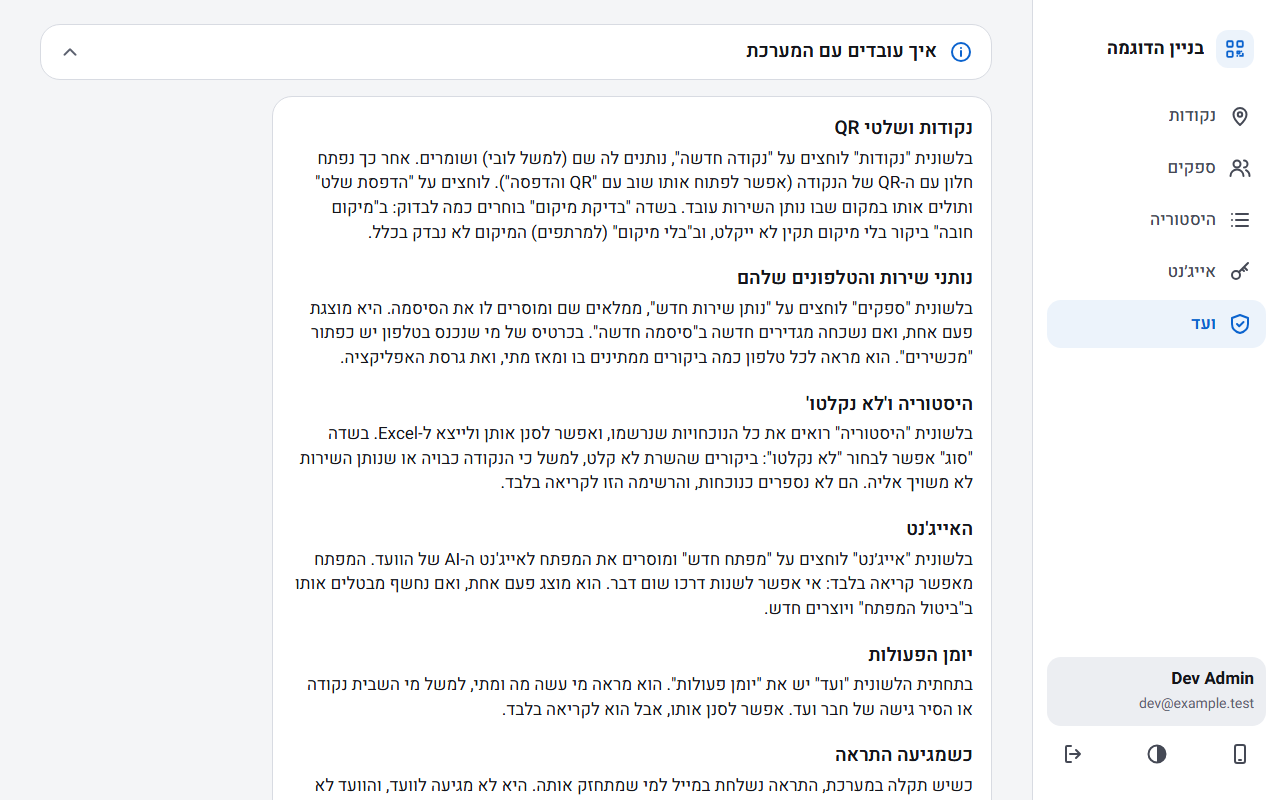
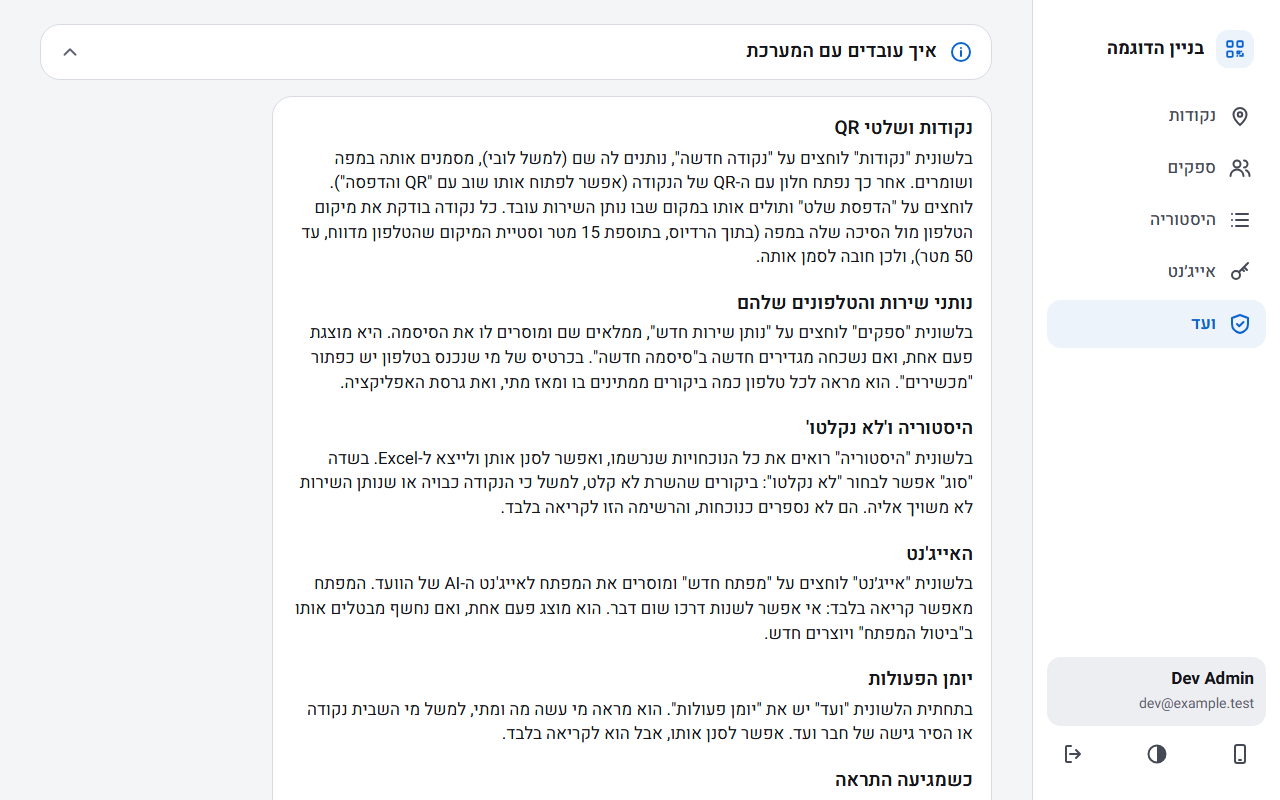
docs(screenshots): the committee screens as they are now, every point checking the location (#166)
🟢 The README's pictures, their README, and one statement in the local
screenshot script (`scripts/screenshots/seed-history.mjs`, which runs
only in the screenshot run's own scratch schema and never in CI). No
app, server, test or CI change.

## Why

The pictures were taken on 06/10/2026 (#121), and since then several
screens have changed:

- **The points screen** lost its location-mode badges: every point is
saved as location required (#158). It also shows the radius on every
tile.
- **History** shows the accuracy next to the distance, for example ("0
מ׳ מהנקודה, דיוק 10 מ׳"), since #152.
- **The help** says that every point is marked on the map and checks the
phone's location against its pin (#158).
- **The provider sign-in notice** says that the location is not saved on
the server (#157).

## What changes

- **`scripts/screenshots/seed-history.mjs`** sets every sample point to
`required` before the pictures are taken, as the committee app saves
them. Without it, the lobby (`optional`) and the basement (`none`) of
the sample seed would show warning badges. It only touches the
screenshot run's own scratch schema. `scripts/dev-seed.mjs` keeps its
older modes on purpose, because the end-to-end tests cover how the
server serves a point that an older installation saved without the
check.
- **Seven pictures retaken** with `npm run screenshots`:
  - points on a phone, a computer, and in the dark theme;
  - History on a phone and a computer;
  - the help;
[…]

Changed region(s): [[0.2188, 0.1875, 0.7812, 1.0]]

diff --git a/docs/screenshots/README.md b/docs/screenshots/README.md
@@ -7,7 +7,9 @@ like before installing anything. Both apps are in Hebrew, in the light theme (on
 invented providers, four points on an invented position, and sixteen visits that `scripts/screenshots/seed-history.mjs`
 adds). No real name, address, phone number or coordinate is in them, and none may be: look at every picture before you
 commit it. The dates and times in them are relative to the day that they were taken: the visits are one to five days old, and
-the check-in of the provider app is made at the moment of the run.
+the check-in of the provider app is made at the moment of the run. Every point in them checks the location, as the committee
+app saves points: `seed-history.mjs` sets that in the run's own schema, while the sample seed keeps the older modes that the
+end-to-end tests use.
 
 | Image | What it shows |
 |---|---|
